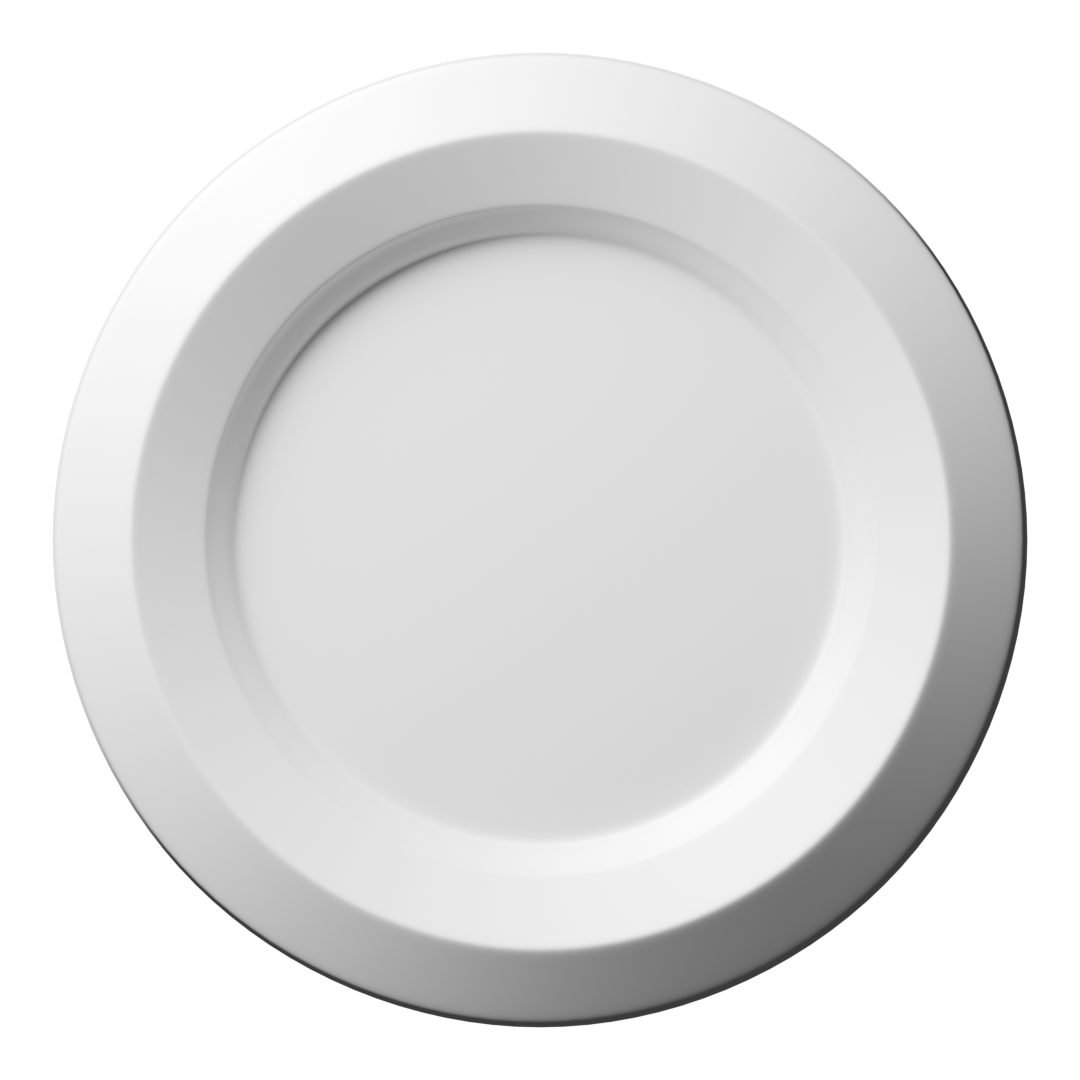
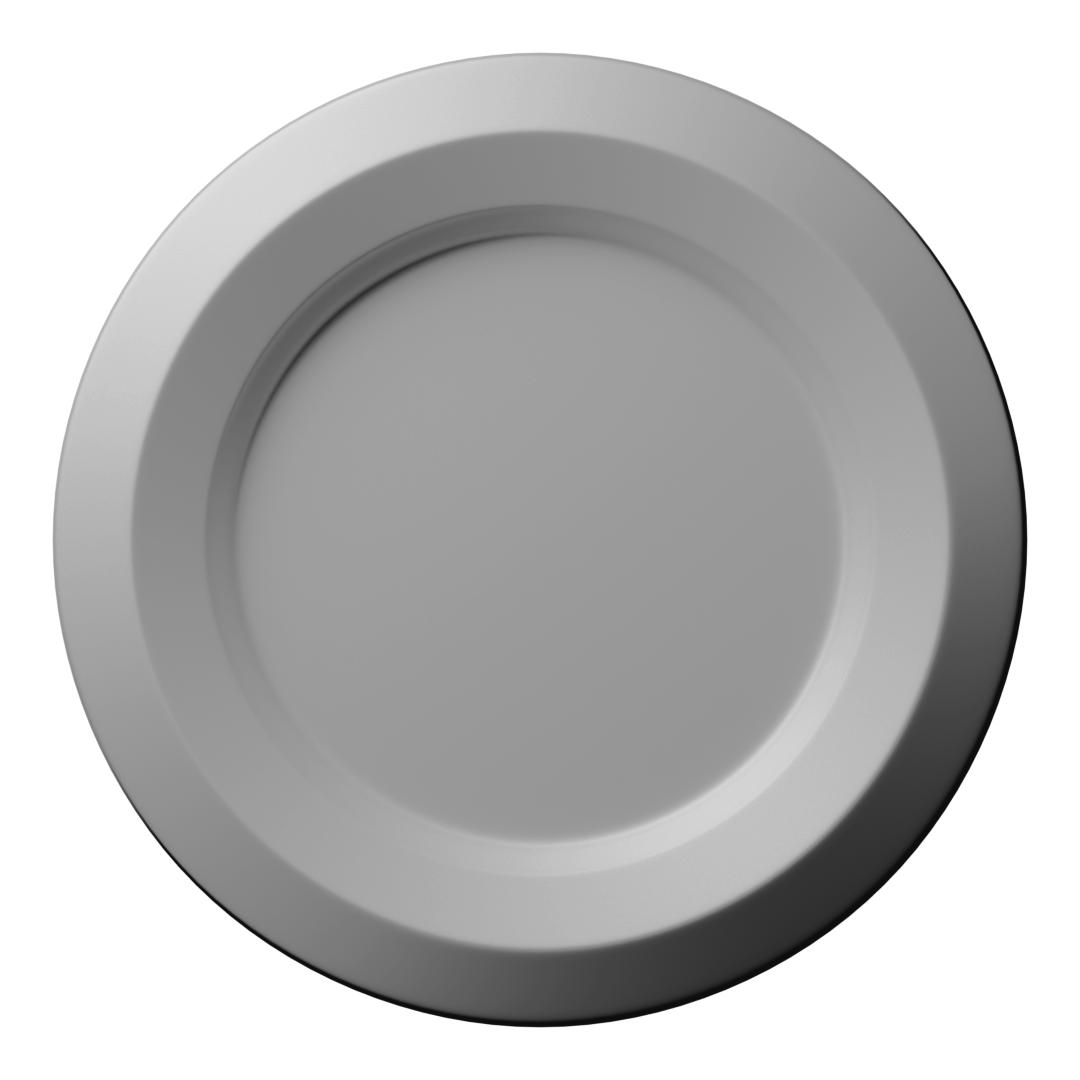
Use darker v002 Blender toggle knob
Replace the supplied knob asset while retaining its 24px size and track geometry. Record Steve's HDR-screen visibility rationale. Tests skipped at Steve's request for these visual adjustments.

diff --git a/docs/product/modules/grade.md b/docs/product/modules/grade.md
@@ -1,6 +1,6 @@
 # Module PRD: Grade
 
-**Toggle knob (October 24, 2026).** Shared on/off switches use Steve’s transparent Blender knob render over the existing recessed track. The track remains 46 by 20 px; the 24 px knob extends slightly above and below its rails. Checked state, focus and keyboard behaviour remain unchanged; knob motion respects reduced-motion preferences.
+**Toggle knob (October 24, 2026).** Shared on/off switches use Steve’s darker v002 transparent Blender knob render over the existing recessed track, chosen to make its shading easier to see on Steve’s HDR screen. The track remains 46 by 20 px; the 24 px knob extends slightly above and below its rails. Checked state, focus and keyboard behaviour remain unchanged; knob motion respects reduced-motion preferences.
 
 **Panel alignment (October 24, 2026).** Left and right rails remain adjustable on Grade, Proof and Export. The logo, File menu and left-panel content share a consistent leading edge. The Control Panel title occupies the shared preview-header height with a divider immediately beneath it; Global / Local / Retouch remain full-width tabs.
 
